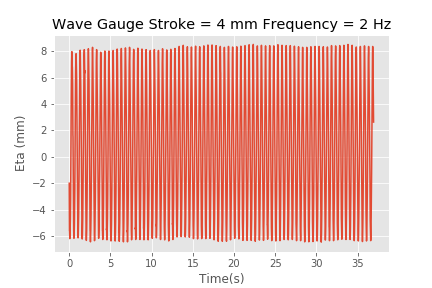
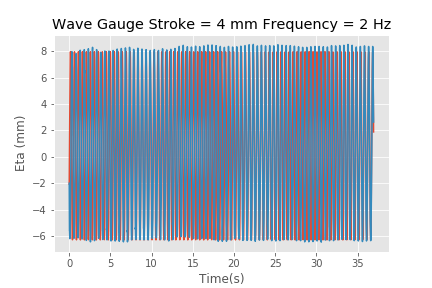
stuff

diff --git a/Lab1_Coastal.md b/Lab1_Coastal.md
@@ -7,13 +7,16 @@ from aide_design.play import*
 ##CEE4530 Lab 1
 
 ##Introduction:
-This purpose of this lab was to generate waves in the wave maker and use the wave gauge to measure the distance from the gauge to the wave.
+This purpose of this lab was to generate waves in the wave maker and use the wave gauge to measure the distance from the gauge to the wave. Another purpose was to apply what we have learned about linear wave theory and see how it applies to waves in the laboratory. Another learning outcome from this lab was how to analyze wave data especially curve fitting to a sine/cosine wave and connecting data to derived equations.
 
 ##Experimental Setup:
+There were two experimental set ups. The first was a wave gauge set up over a column of water. The height of the wave gauge above the water column was varied and data from the gauge was recorded using Easy Data. This was used for the calibration coefficient step.
+The second experimental setup was in a wave flume. There was a wave make that generated waves within the flume. There were two wave gauges along the flume that measured wave height at different points in time. The wave maker was set to make waves with different strokes and frequencies. The data from the wave gauges was recorded for all the waves and this data was analyzed for fit to a wave equation.
 
 ##Calibration
-The gauge reading was the average reading over the 10-20 seconds logging period.
-| Distance  (ft) | Volts |
+The calibration coefficient was determined by averaging the gauge reading over the 10-20 seconds that data was logged and then using a linear regression to fit the line. The slope of that line is the calibration coefficient.
+
+| Distance above water column (ft) | Volts |
 |:-------------- |:----- |
 | 0.4            | 4.11  |
 | 0.3            | 2.72  |
@@ -40,75 +43,23 @@ plt.show()
 The calibration coefficient is 26.24 mm/V.This is very close to the calibration coefficients of the other wave gauges, so it is a reasonable answer.
 
 ##Wave Generation Results
-```python
-file = pd.read_csv('Monday2-1.csv')
-wave_1_upstream = file["upstream"].values  * 22.4
-wave_1_time = file["Time"].values
-wave_1_time = wave_1_time - wave_1_time[0]
-plt.plot(wave_1_time,wave_1_upstream)
-plt.title('Wave Gauge Stroke = 3mm Frequency = 2 Hz')
-plt.xlabel('Time(s)')
-plt.ylabel('Eta (mm)')
-plt.savefig('/Users/jillianwhiting/github/Jillian-Whiting/Images/wave1_2')
-plt.show()
-file = pd.read_csv('Monday2-2.csv')
-wave_2_upstream = file["upstream"].values * 22.4
-wave_2_time = file["Time"].values
-wave_2_time = wave_2_time - wave_2_time[0]
-plt.plot(wave_2_time,wave_2_upstream)
-plt.title('Wave Gauge Stroke = 3 mm Frequency = 2.5 Hz')
-plt.xlabel('Time(s)')
-plt.ylabel('Eta (mm)')
-plt.savefig('/Users/jillianwhiting/github/Jillian-Whiting/Images/wave2')
-plt.show()
-file = pd.read_csv('Monday2-3.csv')
-wave_3_upstream = file["upstream"].values * 22.4
-wave_3_time = file["Time"].values
-wave_3_time = wave_3_time - wave_3_time[0]
-plt.plot(wave_3_time,wave_3_upstream)
-plt.title('Wave Gauge Stroke = 3 mm Frequency = 3 Hz')
-plt.xlabel('Time(s)')
-plt.ylabel('Eta (mm)')
-plt.savefig('/Users/jillianwhiting/github/Jillian-Whiting/Images/wave3')
-plt.show()
-file = pd.read_csv('Monday2-4.csv')
-wave_4_upstream = file["upstream"].values * 22.4
-wave_4_time = file["Time"].values
-wave_4_time = wave_4_time - wave_4_time[0]
-plt.plot(wave_4_time,wave_4_upstream)
-plt.title('Wave Gauge Stroke = 4 mm Frequency = 2 Hz')
-plt.xlabel('Time(s)')
-plt.ylabel('Eta (mm)')
-plt.savefig('/Users/jillianwhiting/github/Jillian-Whiting/Images/wave4')
-plt.show()
-file = pd.read_csv('Monday2-5.csv')
-wave_5_upstream = file["upstream"].values * 22.4
-wave_5_time = file["Time"].values
-wave_5_time = wave_5_time - wave_5_time[0]
-plt.plot(wave_5_time,wave_5_upstream)
-plt.title('Wave Gauge Stroke = 5 mm Frequency = 2 Hz')
-plt.xlabel('Time(s)')
-plt.ylabel('Eta (mm)')
-plt.savefig('/Users/jillianwhiting/github/Jillian-Whiting/Images/wave5')
-plt.show()
-```
-![wave1](https://github.com/jillianwhiting/Jillian-Whiting/blob/master/Images/wave1_2.png?raw=true)
-![wave2](https://github.com/jillianwhiting/Jillian-Whiting/blob/master/Images/wave2.png?raw=true)
-![wave3](https://github.com/jillianwhiting/Jillian-Whiting/blob/master/Images/wave3.png?raw=true)
-![wave4](https://github.com/jillianwhiting/Jillian-Whiting/blob/master/Images/wave4.png?raw=true)
-![wave5](https://github.com/jillianwhiting/Jillian-Whiting/blob/master/Images/wave5.png?raw=true)
 
-Based on the graphed wave data, there is not much difference between the local minimum and maxima and the overall minimum and maximum. The error there is a fluctuation of about .5 mm in a 10 mm amplitude which is only a 5% error. Therefore using the difference between the overall minimum and maximum will be sufficient for our analysis of amplitude.
+From the wave gauge data we can create curve fits based on linear wave theory. We will use a curve fit function to fit the data to the following equation:
+$\eta(x,t) = a\sin(kx-\sigma t)$.
+There is a lot of waves in the data from the recording so in order to minimize noise in the curve fitting function. the curve fit was done in sections of 50 points. Based on visual inspection this was the number of points where the amplitude of the wave was most similar to curve fitting amplitude. The amplitude of each of the 50 point curve fits was then averaged to generate the overall amplitude of the wave.  
 ```python
 from scipy.optimize import curve_fit
 def func(time,a,k,q,w,c):
     return a * np.sin(k * q - w * time) + c
+file = pd.read_csv('Monday2-1.csv')
+wave_1_upstream = file["upstream"].values  * 22.4
+wave_1_time = file["Time"].values
+wave_1_time = wave_1_time - wave_1_time[0]  
 guesses = [5,-1,0,15,0]
 wave_1_fit = np.zeros([56,5])
 for k in range(56):
   popt, pcov = scipy.optimize.curve_fit(func, wave_1_time[k*50:k*50 + 50], wave_1_upstream[k*50:k*50 + 50],guesses)
   wave_1_fit[k,:] = popt
-print(wave_1_fit)
 average = np.zeros([5])
 average[0] = np.average(abs(wave_1_fit[:,0]))
 average[1] = np.average(wave_1_fit[:,1])
@@ -117,9 +68,17 @@ average[3] = np.average(wave_1_fit[:,3])
 average[4] = np.average(wave_1_fit[:,4])
 plt.plot(wave_1_time, func(wave_1_time, *average))
 plt.plot(wave_1_time, wave_1_upstream)
+plt.title('Wave Gauge Stroke = 3mm Frequency = 2 Hz')
+plt.xlabel('Time(s)')
+plt.ylabel('Eta (mm)')
+plt.savefig('/Users/jillianwhiting/github/Jillian-Whiting/Images/wave1_2')
+plt.legend(['Curve Fit', 'Data'],loc='best')
 plt.show()
-print(average[0])
 
+file = pd.read_csv('Monday2-2.csv')
+wave_2_upstream = file["upstream"].values * 22.4
+wave_2_time = file["Time"].values
+wave_2_time = wave_2_time - wave_2_time[0]
 wave_2_fit = np.zeros([56,5])
 guesses = [5.25,-1,0,15,0]
 for k in range(56):
@@ -133,9 +92,17 @@ average_2[3] = np.average(wave_2_fit[:,3])
 average_2[4] = np.average(wave_2_fit[:,4])
 plt.plot(wave_2_time, func(wave_2_time, *average_2))
 plt.plot(wave_2_time, wave_2_upstream)
+plt.title('Wave Gauge Stroke = 3 mm Frequency = 2.5 Hz')
+plt.xlabel('Time(s)')
+plt.ylabel('Eta (mm)')
+plt.savefig('/Users/jillianwhiting/github/Jillian-Whiting/Images/wave2')
+plt.legend(['Curve Fit', 'Data'],loc='best')
 plt.show()
-print(average_2[0])
 
+file = pd.read_csv('Monday2-3.csv')
+wave_3_upstream = file["upstream"].values * 22.4
+wave_3_time = file["Time"].values
+wave_3_time = wave_3_time - wave_3_time[0]
 wave_3_fit = np.zeros([56,5])
 guesses = [5.25,-1,0,15,0]
 for k in range(56):
@@ -149,9 +116,18 @@ average_3[3] = np.average(wave_3_fit[:,3])
 average_3[4] = np.average(wave_3_fit[:,4])
 plt.plot(wave_3_time, func(wave_3_time, *average_3))
 plt.plot(wave_3_time, wave_3_upstream)
+plt.title('Wave Gauge Stroke = 3 mm Frequency = 3 Hz')
+plt.xlabel('Time(s)')
+plt.ylabel('Eta (mm)')
+plt.savefig('/Users/jillianwhiting/github/Jillian-Whiting/Images/wave3')
+plt.legend(['Curve Fit', 'Data'],loc='best')
 plt.show()
-print(average_3[0])
 
+
+file = pd.read_csv('Monday2-4.csv')
+wave_4_upstream = file["upstream"].values * 22.4
+wave_4_time = file["Time"].values
+wave_4_time = wave_4_time - wave_4_time[0]
 wave_4_fit = np.zeros([56,5])
 guesses = [5.25,-1,0,15,0]
 for k in range(56):
@@ -165,9 +141,18 @@ average_4[3] = np.average(wave_4_fit[:,3])
 average_4[4] = np.average(wave_4_fit[:,4])
 plt.plot(wave_4_time, func(wave_4_time, *average_4))
 plt.plot(wave_4_time, wave_4_upstream)
+plt.title('Wave Gauge Stroke = 4 mm Frequency = 2 Hz')
+plt.xlabel('Time(s)')
+plt.ylabel('Eta (mm)')
+plt.savefig('/Users/jillianwhiting/github/Jillian-Whiting/Images/wave4')
+plt.legend(['Curve Fit', 'Data'],loc='best')
 plt.show()
-print(average_4[0])
 
+
+file = pd.read_csv('Monday2-5.csv')
+wave_5_upstream = file["upstream"].values * 22.4
+wave_5_time = file["Time"].values
+wave_5_time = wave_5_time - wave_5_time[0]
 wave_5_fit = np.zeros([56,5])
 guesses = [5.25,-1,0,15,0]
 for k in range(56):
@@ -181,9 +166,19 @@ average_5[3] = np.average(wave_5_fit[:,3])
 average_5[4] = np.average(wave_5_fit[:,4])
 plt.plot(wave_5_time, func(wave_5_time, *average_5))
 plt.plot(wave_5_time, wave_5_upstream)
+plt.title('Wave Gauge Stroke = 5 mm Frequency = 2 Hz')
+plt.xlabel('Time(s)')
+plt.ylabel('Eta (mm)')
+plt.savefig('/Users/jillianwhiting/github/Jillian-Whiting/Images/wave5')
+plt.legend(['Curve Fit', 'Data'],loc='best')
 plt.show()
-print(average_5[0])
 ```
+![wave1](https://github.com/jillianwhiting/Jillian-Whiting/blob/master/Images/wave1_2.png?raw=true)
+![wave2](https://github.com/jillianwhiting/Jillian-Whiting/blob/master/Images/wave2.png?raw=true)
+![wave3](https://github.com/jillianwhiting/Jillian-Whiting/blob/master/Images/wave3.png?raw=true)
+![wave4](https://github.com/jillianwhiting/Jillian-Whiting/blob/master/Images/wave4.png?raw=true)
+![wave5](https://github.com/jillianwhiting/Jillian-Whiting/blob/master/Images/wave5.png?raw=true)
+
 | Stroke (mm) | Frequency (Hz) | Amplitude (mm) |
 |:----------- |:-------------- | --------- |
 | 3           | 2              | 5.3957    |
@@ -198,15 +193,37 @@ strokes = np.array([3,3,3,4,5])
 frequency = np.array([2,2.5,3,2,2])
 amplitude = np.array([average[0],average_2[0],average_3[0],average_4[0],average_5[0]])
 array_2 = np.array([amplitude[0],amplitude[3],amplitude[4]])
+trend_freq = scipy.stats.linregress(frequency[0:3],amplitude[0:3])
+trend_stroke = scipy.stats.linregress(strokes[2:5],array_2)
+print(trend_stroke)
+
 ## stroke 3 graph
-plt.plot(frequency[0:3],amplitude[0:3])
+plt.plot(frequency[0:3],amplitude[0:3],'*')
+plt.plot(frequency[0:3],frequency[0:3]*trend_freq[0]+trend_freq[1])
+plt.title('Wave Stroke = 3 mm')
+plt.xlabel('Frequency (Hz)')
+plt.ylabel('Amplitude (mm)')
+plt.savefig('/Users/jillianwhiting/github/Jillian-Whiting/Images/stroke_3')
 plt.show()
 ## frequency 2 graph
-plt.plot(strokes[2:5],array_2)
+plt.plot(strokes[2:5],array_2,'*')
+plt.plot(strokes[2:5],strokes[2:5]*trend_stroke[0]+trend_stroke[1])
+plt.title('Wave Frequency = 2 Hz')
+plt.xlabel('Stroke (mm)')
+plt.ylabel('Amplitude (mm)')
+plt.savefig('/Users/jillianwhiting/github/Jillian-Whiting/Images/frequency_2')
 plt.show()
 ```
 
+![stroke](https://github.com/jillianwhiting/Jillian-Whiting/blob/master/Images/stroke_3.png?raw=tru)
+![freq](https://github.com/jillianwhiting/Jillian-Whiting/blob/master/Images/frequency_2.png?raw=tru)
 
-##Discussion of experiments
-
-##Conclusion
+##Discussion of Results
+From linear wave theory we derived the equation for the free surface as:
+$\eta(x,t) = a\sin(kx-\sigma t)$.
+From this equation we see that a change in the frequency ($\sigma$) of the wave should only shift the phase of the wave and not affect the amplitude. The results show a small, slope -0.34 mm/Hz downward trend in amplitude with frequency. The $r^{2}$ value for this correlation is 0.86. This could be due to mechanical error that with high frequencies the wave generator does not achieve its whole stroke because it is moving very fast.
+From linear wave theory, we have also derived energy equations which resulted in:
+$\overline{Flux} = \overline{E^{+}}c_{p}n$
+Assuming the stroke of the wavemaker is proportional to Force exerted by the wavemaker, then the flux created by the wave maker is proportional to the force times the the velocity. Velocity is proportional to amplitude. the $\overline{E^{+}}$ is proportional to $a^{2}$. Therefore:
+$F*a\sim a^2$ or $Stroke\sim a$
+This is supported by the data which shows a strong linear correlation, $r^2$ 0.996, between stroke and amplitude. Errors in the data for this could be mechanical errors or measurement errors by the gauge, but they are very slight.
